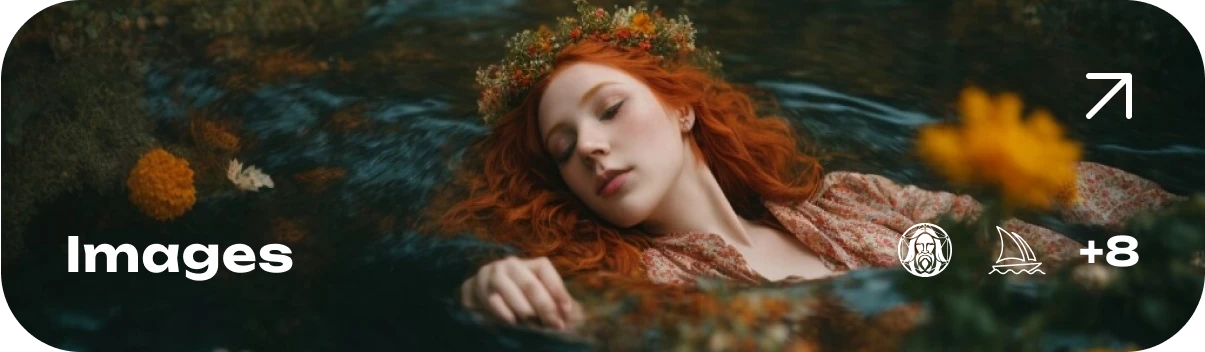
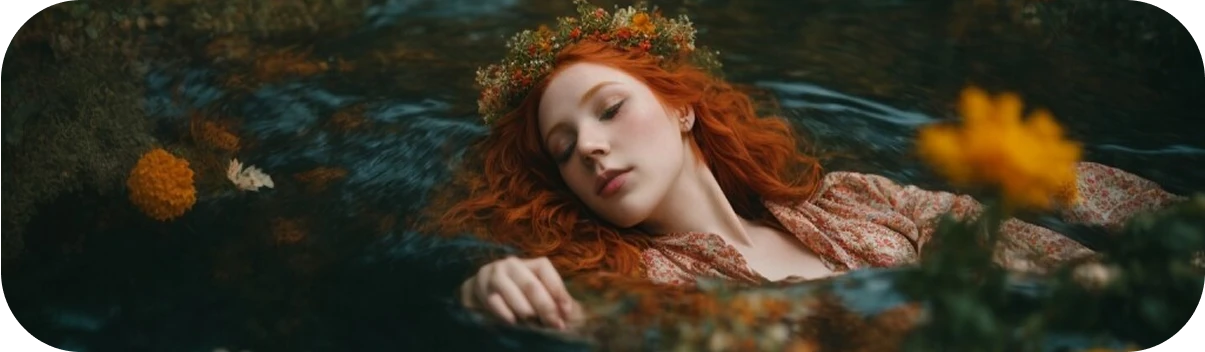
domains hover

diff --git a/src/components/front/ChooseYourDirection.vue b/src/components/front/ChooseYourDirection.vue
@@ -13,12 +13,35 @@
       </div>
 
       <div class="flex min-w-0 flex-1 flex-col gap-2 lg:gap-4">
-        <NuxtLink v-for="([domain], index) in domains" :key="index" :to="domain.to">
+        <NuxtLink
+          v-for="([domain], index) in domains"
+          :key="index"
+          :to="domain.to"
+          class="domain-item"
+        >
           <img
             :src="`/assets/images/choose/${domain.label?.toLowerCase?.()}.webp`"
             alt=""
-            class="w-full"
+            class="block h-[176px] w-full rounded-[40px] object-cover"
           />
+
+          <GIcon name="icon_up" class="absolute right-6 top-6 text-[48px]" />
+          <div class="absolute bottom-8 left-8 right-8 flex items-center justify-between">
+            <div class="h5">{{ domain.title }}</div>
+
+            <div class="flex items-center gap-4">
+              <div v-if="domain.icons" class="flex items-center gap-4">
+                <GIcon v-for="icon in domain.icons" :name="icon" class="text-[32px]" />
+              </div>
+
+              <div
+                v-if="domain.text"
+                class="font-unbounded text-xl leading-[140%] tracking-[0.4px]"
+              >
+                {{ domain.text }}
+              </div>
+            </div>
+          </div>
         </NuxtLink>
       </div>
     </div>
@@ -28,3 +51,21 @@
 <script setup lang="ts">
 const domains = useState('domains', () => [])
 </script>
+
+<style scoped lang="scss">
+.domain-item {
+  @apply relative block min-h-[176px] rounded-[40px] bg-white text-white;
+
+  img {
+    @apply transition-all;
+  }
+
+  &:hover {
+    @apply text-black #{!important};
+
+    img {
+      @apply opacity-0;
+    }
+  }
+}
+</style>

diff --git a/src/components/base/HeaderDomain.vue b/src/components/base/HeaderDomain.vue
@@ -59,30 +59,45 @@ domains.value = [
     {
       label: t('images'),
       to: 'https://hyperspace.ai/ai-image-generator',
+      title: t('images'),
+      icons: ['leo', 'mid'],
+      text: '+8',
     },
   ],
   [
     {
       label: t('chatbots'),
       to: 'https://hyperspace.ai/chatbots-ai',
+      title: t('chatbots'),
+      icons: ['gemini', 'snow', 'meta'],
+      text: '+1000',
     },
   ],
   [
     {
       label: t('text'),
       to: 'https://hyperspace.ai/ai-text-generator',
+      title: t('text'),
+      icons: ['file'],
+      text: '200',
     },
   ],
   [
     {
       label: t('music'),
       to: 'https://hyperspace.ai/music-generation-ai',
+      title: t('music'),
+      icons: ['music'],
+      text: '200',
     },
   ],
   [
     {
       label: t('voices'),
       to: 'https://hyperspace.ai/voice-generation-ai',
+      title: t('voices'),
+      icons: ['mic'],
+      text: '48',
     },
   ],
 ]

diff --git a/src/components/front/TopPart.vue b/src/components/front/TopPart.vue
@@ -21,7 +21,7 @@
 
     <div class="mt-14 flex justify-center gap-3 lg:gap-12">
       <GIcon name="chatgpt" class="text-[32px]" />
-      <GIcon name="star" class="text-[32px]" />
+      <GIcon name="gemini" class="text-[32px]" />
       <GIcon name="endless" class="text-[32px]" />
       <GIcon name="snow" class="text-[32px]" />
       <GIcon name="midjourney" class="text-[32px]" />
